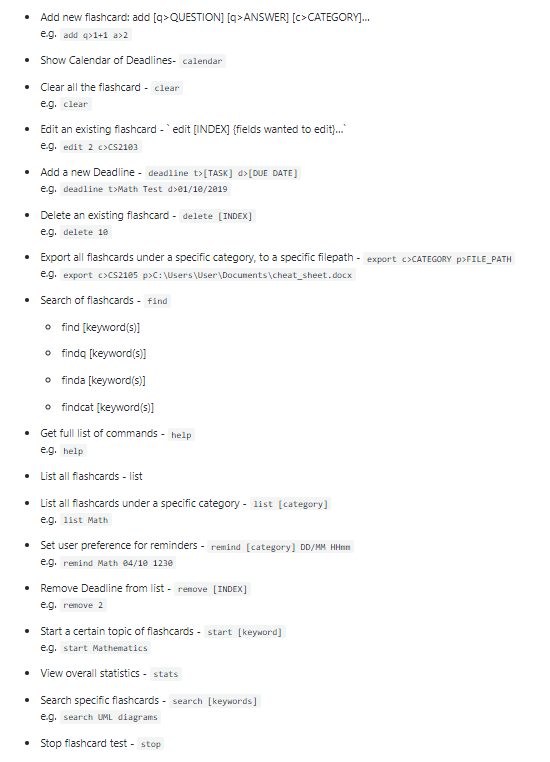
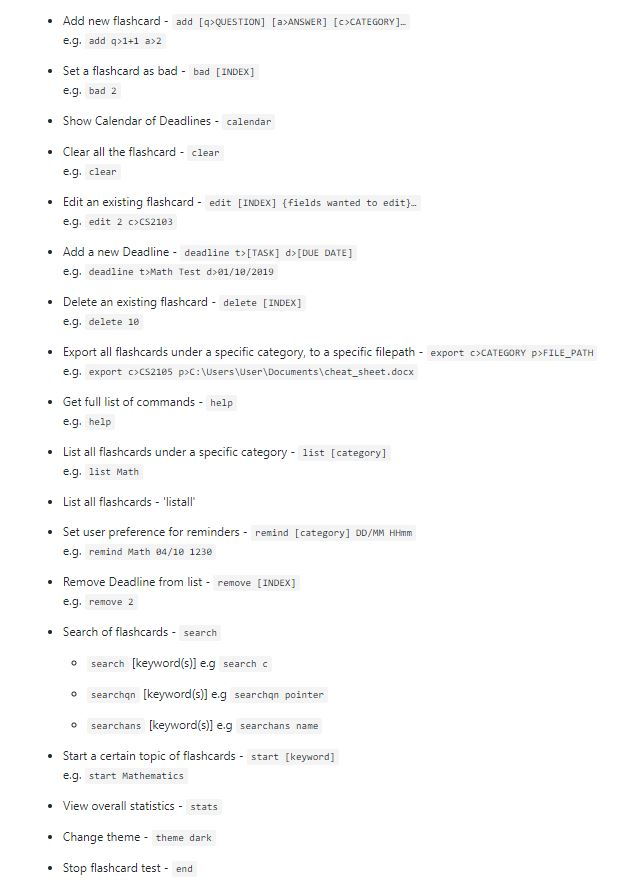
Help window command summary update

diff --git a/src/main/java/seedu/address/ui/HelpWindow.java b/src/main/java/seedu/address/ui/HelpWindow.java
@@ -57,7 +57,7 @@ public class HelpWindow extends UiPart<Stage> {
      */
     public void show() {
         logger.fine("Showing help page about the application.");
-        Image image = new Image("file:Commands.png", 550, 762, true, false);
+        Image image = new Image("file:Commands.png", 637, 886, true, false);
         imageView.setImage(image);
 
         getRoot().show();
